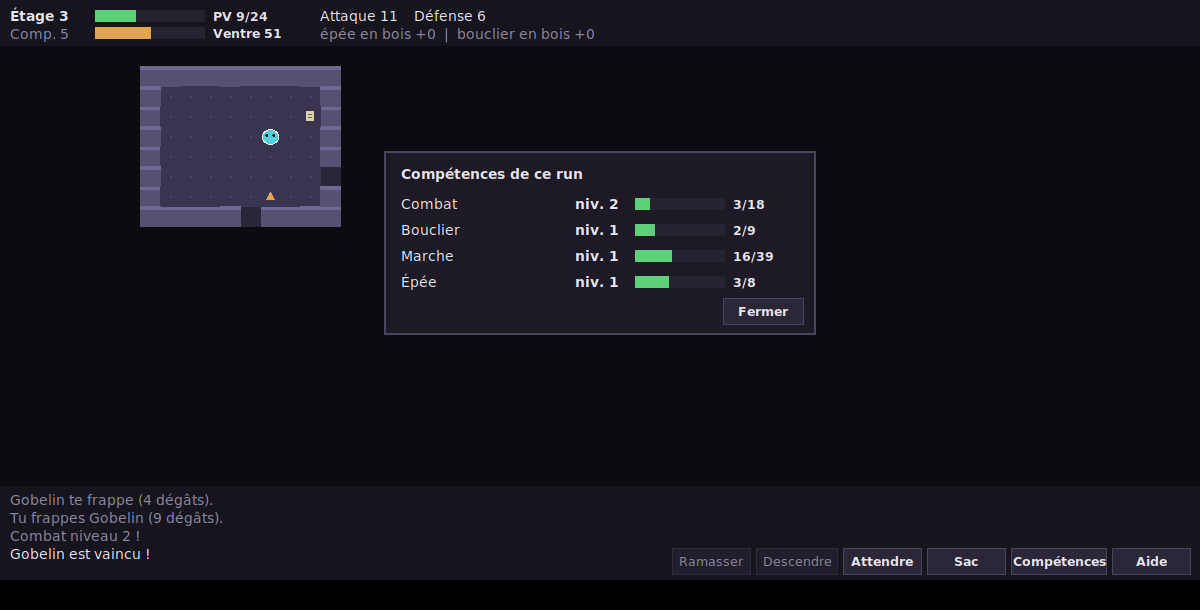
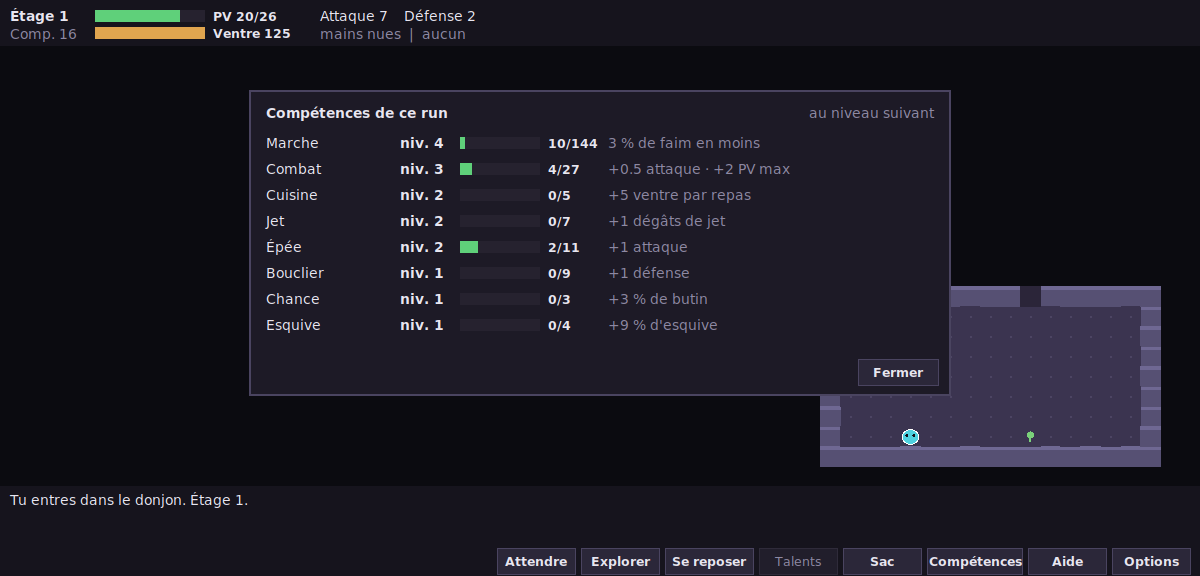
Met le README à jour : il décrivait un jeu d'il y a quinze étapes
L'en-tête ne disait pas que c'est devenu un incrémental, la table des
mécaniques listait « trois IA » et « 30 étages », la section d'équilibrage
citait des chiffres de l'époque où le donjon faisait cinq étages, et le
clavier ignorait la moitié des touches. Réécrit à partir de l'état réel :
13 créatures au croisement de 3 familles et 6 classes, 24 nœuds pour 32
achats, les étages qui s'achètent par tranches de dix, la stèle, les piles
de munitions, le bouton d'action unique, le double-clic.

Deux sections neuves : « Ce que valent les nombres », qui dit d'où viennent
les réglages et ce que le bot ne sait pas mesurer, et un bloc « ajouter un
talent » — c'est devenu le point d'extension le plus utilisé.

Captures refaites : l'aperçu, le sac avec sa bulle, les compétences avec
l'esquive et la chance.

Claude-Session: https://claude.ai/code/session_018UFaHGxRzxn1yYEEvUBBBk

diff --git a/README.md b/README.md
@@ -1,9 +1,10 @@
 # usedonjon — petit donjon mystère
 
-Un roguelike « Mystery Dungeon » (type *Shiren le vagabond*) volontairement
-minimal : tour par tour, étages générés aléatoirement, faim, objets à lancer,
-escalier à trouver. Écrit en **Python 3, sans aucune dépendance**, pour pouvoir
-tester une idée en quelques secondes et faire grossir les mécaniques ensuite.
+Un roguelike « Mystery Dungeon » (type *Shiren le vagabond*) doublé d'un
+**incrémental** : tour par tour, étages générés, faim, objets à lancer — et un
+donjon qui s'ouvre morceau par morceau. La première vie se joue dans un couloir
+vide où l'on meurt de faim ; tout le reste s'achète avec ce que la mort
+rapporte. Écrit en **Python 3, sans aucune dépendance**.
 
 ![Aperçu du jeu](docs/apercu.png)
 
@@ -12,7 +13,7 @@ tester une idée en quelques secondes et faire grossir les mécaniques ensuite.
 ```bash
 python3 -m donjon                # fenêtre graphique (tkinter, fourni avec Python)
 python3 -m donjon --seed 42      # partie reproductible
-python3 -m donjon --depth 10     # raccourcir le donjon (30 étages par défaut)
+python3 -m donjon --depth 10     # forcer la profondeur (sinon elle s'achète)
 python3 -m donjon --tile 26      # cases plus grandes
 python3 -m donjon --tui          # version terminal (ASCII, curses)
 python3 -m donjon --meta         # voir sa progression permanente
@@ -27,16 +28,18 @@ Tout se joue au clic, sans rien connaître du clavier :
 - **clic plus loin** : le héros s'y rend tout seul (chemin calculé par le BFS de
   `path.py`, uniquement à travers ce qu'il a déjà vu) et s'arrête dès qu'un
   monstre apparaît, qu'il est blessé ou qu'il marche sur quelque chose ;
-- **clic sur le héros** : ramasser l'objet sous lui, descendre l'escalier, ou
-  attendre un tour selon la situation — les consommables, eux, se ramassent
-  tout seuls en marchant dessus ;
+- **clic sur le héros** : ce que la case demande — ramasser, descendre, ouvrir
+  le coffre, lire la stèle des talents, ou attendre faute de mieux. Les
+  consommables se ramassent tout seuls en marchant dessus ;
 - **bouton « Se reposer »** : patienter jusqu'à guérison, au prix du ventre —
   l'attente s'interrompt seule si un monstre paraît ;
 - **survol** : une étiquette décrit la case (nom et PV du monstre, objet, piège) ;
 - **clic droit** : annuler le déplacement en cours ou fermer un panneau ;
-- les **boutons en bas à droite** (Ramasser, Descendre, Attendre, Sac, Aide) et
-  le **sac** sont entièrement cliquables — y compris viser un jet en cliquant
-  la cible.
+- les **boutons en bas à droite** et le **sac** sont entièrement cliquables — y
+  compris viser un jet en cliquant la cible. Le premier bouton est le seul
+  bouton d'action : son libellé dit ce qu'il fera ici. Dans le sac, un
+  **double-clic** exécute l'action évidente — un onigiri se mange, une épée
+  s'équipe.
 
 ![Le sac à la souris](docs/sac.png)
 
@@ -47,10 +50,10 @@ Les compétences se consultent d'un clic ou avec `c` :
 ### Au clavier
 
 Les **flèches** (ou `hjkl` + `yubn`, ou le pavé numérique) pour se déplacer et
-attaquer, `,` ramasser, `>` descendre, `.` attendre, `i` sac, `?` aide,
-`q` quitter. Dans le sac : la lettre de l'objet, puis `u` utiliser, `e` équiper,
-`t` lancer (puis une direction), `d` poser. Après la partie, `R` relance une
-nouvelle descente.
+attaquer, `,` ramasser, `>` descendre, `.` attendre, `s` se reposer,
+`e` explorer tout seul, `i` sac, `c` compétences, `t` talents (au refuge),
+`?` aide, `q` quitter. Dans le sac : la lettre de l'objet, puis `t` lancer
+(puis une direction) ou `d` poser. Après la partie, `R` relance une descente.
 
 Il y a deux affichages pour le même moteur : la fenêtre graphique (`gui.py`,
 formes dessinées à la main, prête à recevoir des sprites PNG) et le terminal
@@ -78,7 +81,7 @@ Tout le jeu est pilotable sans interface : l'UI et les tests appellent les
 mêmes fonctions `Game.cmd_*`.
 
 ```bash
-python3 -m unittest discover -s tests      # la suite complète (~3 s, 47 tests)
+python3 -m unittest discover -s tests      # la suite complète (~12 s, 330 tests)
 python3 -m donjon --seed 7 --script "lljj,>" --frames   # rejouer une partition
 python3 -m donjon --seed 7 --auto 500 --reveal          # bot + carte dévoilée
 ```
@@ -97,42 +100,55 @@ manquent, donc la suite reste verte sur un serveur sans affichage.
 
 ## Ce qui est déjà là
 
-| Mécanique | État |
+**Le donjon** — étages générés (salles + couloirs), visibilité « salle
+entière » et mémoire de la carte, faim, pièges, escalier. Il s'achète par
+tranches de dix étages, et chaque tranche franchie fait monter les créatures
+d'un cran sec : la profondeur est un escalier, pas une pente.
+
+**Le combat** — tour par tour sur un ordonnanceur à énergie (vitesses
+différentes), diagonales bloquées par les angles de murs pour les coups comme
+pour les pas, jet d'objets, tir des archers en ligne droite, statuts avec durée.
+
+**Les créatures** — 13, au croisement de 3 **familles** (animal, humanoïde,
+homoncule : ce qu'elles sont) et de 6 **classes** (rôdeur, erratique, embusqué,
+guerrier, archer, blindé : ce qu'elles font). Elles laissent du butin sur les
+mêmes axes — la classe lâche son outil, la famille sa matière.
+
+**Les objets** — 15 : vivres, herbes, parchemins non identifiés, armes,
+boucliers, pierres à lancer, l'orbe de retour. Les munitions s'empilent, les
+consommables se ramassent en marchant dessus, et les fiches au survol
+annoncent ce que l'objet fera *dans ces mains-là*, compétences comprises.
+
+**Les compétences** — 12, gagnées en pratiquant : marcher entraîne la marche,
+frapper entraîne l'arme en main, encaisser entraîne le bouclier — ou l'esquive
+si le bras est nu. Elles sont perdues à la mort.
+
+**Le méta** — un refuge où l'on marche, son coffre, sa stèle des talents ;
+24 nœuds (32 achats avec les reprises) répartis en 6 branches, dont une
+réanimation et deux automatisations (explorer un étage, manger sans y penser).
+
+**Les interfaces** — fenêtre tkinter entièrement jouable à la souris, terminal
+curses, et aucune interface du tout pour les tests et le bot.
+
+## Ce que valent les nombres
+
+Rien n'est réglé à l'estime : chaque nœud est mesuré par des campagnes du bot
+(`autoplay`), et le critère est simple — **après chaque achat, l'XP par vie doit
+monter**. Il a déjà condamné deux nœuds qui n'apportaient que du danger.
+
+Repères actuels, arbre complet acheté, 40 vies :
+
+| | |
 |---|---|
-| 30 étages générés (salles + couloirs), escalier | ✅ |
-| XP et monstres qui montent avec la profondeur | ✅ |
-| Bilan de fin de run (étage record, tours, compétences, cause) | ✅ |
-| Progression permanente : un arbre de talents qui déverrouille le jeu | ✅ |
-| Un refuge où l'on marche, avec un coffre qui traverse la mort | ✅ |
-| L'orbe de retour : remonter avec ses acquis, sans gagner de méta | ✅ |
-| Visibilité « salle entière », mémoire de la carte | ✅ |
-| Combat au tour par tour, diagonales bloquées par les angles de murs | ✅ |
-| Compétences : on progresse dans ce qu'on pratique | ✅ |
-| Faim (ventre), mort de faim | ✅ |
-| Repos : s'arrêter convertit le ventre en PV, trois fois mieux qu'en marchant | ✅ |
-| Objets : herbes, parchemins, nourriture, armes, boucliers, flèches | ✅ |
-| Jet d'objets sur les monstres | ✅ |
-| Statuts (endormi, confus, paralysé) avec durée | ✅ |
-| Pièges cachés | ✅ |
-| Fiches d'objets au survol (effet, compétence entraînée) | ✅ |
-| Parchemins non identifiés tant qu'on ne les a pas essayés | ✅ |
-| Consommables ramassés en marchant dessus | ✅ |
-| Vitesses différentes (rapide / lent) | ✅ |
-| Trois IA (chasseur, erratique, peureux) + pathfinding | ✅ |
-| Jeu complet à la souris (clic, déplacement auto, survol, boutons) | ✅ |
+| étage atteint | 10,4 en moyenne, 19 au mieux |
+| premier palier (étage 11) franchi | une vie sur deux |
+| cause de mort | la faim une fois sur deux, sinon les homoncules |
 
-## Équilibrage de départ
-
-Repère mesuré avec le bot (`autoplay`, qui fonce vers l'escalier sans farmer) :
-
-| Profondeur | Issue du bot sur 200 graines |
-|---|---|
-| 5 étages (défaut) | ~83 % de victoires |
-| 10 étages | mort systématique, le plus souvent aux étages 6-8 |
-
-Autrement dit : un joueur qui combat et fouille doit pouvoir descendre bien plus
-bas qu'un bot pressé. C'est la base à faire bouger quand on ajustera les tables
-de `monsters.py` et les réglages en tête de `game.py`.
+Le bot est un instrument, pas un joueur : il fuit ce qu'il ne peut pas battre,
+lit un parchemin quand il n'a plus le choix et mange l'herbe de vie, mais il
+n'utilise ni graine de sommeil ni tactique de terrain. **Ce qu'il ne sait pas
+faire, aucune campagne ne peut l'évaluer** — c'est écrit noir sur blanc dans le
+plan à chaque fois que ça compte.
 
 ## Architecture
 
@@ -227,10 +243,30 @@ def _voleur(game, monster):
 
 **Un piège** — même schéma dans `donjon/traps.py`.
 
+**Un talent** — une entrée dans `donjon/tree.py`, et c'est tout ce qui sépare
+une idée de son arrivée dans le jeu :
+
+```python
+Noeud("baguettes", "Les baguettes", 90,
+      "Des baguettes apparaissent au sol — et des créatures qui savent les "
+      "brandir.",
+      branche="Trouvailles", parents=("grimoires",),
+      unlocks=("baguettes",), classes=("mage",),
+      effets={"items_per_floor": (1, 1)})
+```
+
+`effets` s'ajoutent à la `RunConfig`, `reglages` la remplacent, `objets`
+garnissent le sac de départ, `unlocks` ouvrent des familles d'objets, `classes`
+réveillent des créatures, et `repetitions` / `facteur_cout` en font un nœud
+qu'on reprend, de plus en plus cher. L'éventail se réorganise tout seul autour
+du nouveau venu.
+
 ## Le refuge et les deux boucles
 
-La partie s'ouvre dans un **refuge** : une petite salle où l'on marche, avec un
-coffre et l'escalier du donjon. Ce qu'on laisse dans le coffre survit à la mort.
+La partie s'ouvre dans un **refuge** : une petite salle où l'on marche, avec la
+stèle des talents, un coffre et l'escalier du donjon. Ce qu'on laisse dans le
+coffre survit à la mort. Le refuge n'entraîne rien — sans faim ni monstre, on y
+ferait des ronds pour monter la marche : on y dépense, on n'y gagne pas.
 
 Deux boucles s'y imbriquent :
 
@@ -246,12 +282,14 @@ Deux boucles s'y imbriquent :
 Le jeu **se déverrouille**. La première vie se joue dans un couloir vide où
 l'on meurt de faim : pas d'arme, pas de monstre, rien au sol. Mourir rapporte
 de l'XP permanente — les niveaux de compétences du run multipliés par la
-profondeur atteinte — et cette XP s'échange contre des talents, au refuge.
+profondeur atteinte — et cette XP s'échange contre des talents, à la stèle du
+refuge.
 
 L'équipement, les créatures, les objets, les herbes, les parchemins, le coffre,
-l'orbe : chacun est un nœud à acheter, avec ses prérequis. Les choix sont
-définitifs. Chaque déblocage augmente ce qu'une vie rapporte, donc accélère le
-suivant.
+l'orbe, les étages eux-mêmes : chacun est un nœud à acheter, avec ses
+prérequis. Les choix sont définitifs, mais certains nœuds se **reprennent**, de
+plus en plus cher. Chaque déblocage augmente ce qu'une vie rapporte, donc
+accélère le suivant.
 
 La nourriture ne descend jamais sous 30 % des trouvailles, quel que soit le
 nombre de familles d'objets débloquées — sans ce plancher, acheter du contenu
@@ -259,10 +297,14 @@ noierait les vivres et ferait mourir de faim. C'est un plancher statistique, pas
 un vivre posé d'office : quatre étages sur dix n'en portent aucun.
 
 **On n'achète jamais des monstres.** Un nœud donne un outil, et le donjon
-apprend le même geste : l'épée fait venir ce qui se bat au contact, le bouclier
-ce qui encaisse, les herbes ce qui frappe puis se retire. La menace qu'un achat
-réveille est ce qui rend le suivant désirable — et le critère est mesuré : après
-chaque nœud, l'XP par vie doit monter.
+apprend le même geste : la nourriture attire les bêtes, l'épée fait venir ce qui
+se bat au contact, le bouclier ce qui encaisse, les projectiles ce qui te vise
+de loin. La menace qu'un achat réveille est ce qui rend le suivant désirable —
+et le critère est mesuré : après chaque nœud, l'XP par vie doit monter.
+
+Le donjon lui-même s'achète **par tranches de dix étages**, et chaque tranche
+franchie fait monter les créatures d'un cran sec — ×1,54 au dixième étage,
+×2,32 au onzième. Ouvrir la suite du donjon se sent au premier pas.
 
 L'arbre s'affiche en éventail : au centre l'XP qu'il reste à dépenser, autour
 les branches qui s'ouvrent en rayons, un cran plus loin du centre par prérequis.
@@ -285,19 +327,24 @@ supprimer à la main revient au même.
 
 ## Où va le projet
 
-Le jeu évolue vers un hybride roguelike / incrémental. Les compétences sont en
-place — on progresse dans ce qu'on pratique, marcher entraîne la marche et
-frapper entraîne l'arme en main — et la suite est le prestige — à la mort les compétences sont perdues, un niveau global permanent
-monte et débloque des mécaniques. Le plan détaillé, la frontière entre état de
-run et état permanent, et les décisions déjà prises sont dans
+L'hybride roguelike / incrémental est en place : on progresse dans ce qu'on
+pratique, on perd tout à la mort, et ce qu'on y gagne rouvre le jeu un nœud à
+la fois. Le plan détaillé, la frontière entre état de run et état permanent, et
+**toutes les décisions avec leurs mesures** — y compris celles que les chiffres
+ont fait changer d'avis — sont dans
 [`docs/plan-incremental.md`](docs/plan-incremental.md).
 
 ## Pistes pour la suite
 
-- Objets non identifiés (herbes de couleur, parchemins au nom inconnu)
+- **Forces et faiblesses par famille** : le métal encaisse le tranchant et
+  redoute le contondant, la chair l'inverse — l'axe qui donnera tout son sens
+  aux homoncules, et une raison de porter deux armes
+- **Les baguettes**, et le mage qui va avec (il fait des dégâts à distance :
+  aucun monstre ne prend le contrôle du héros, c'est une règle)
+- **L'arc**, en amélioration du nœud des projectiles — les flèches attendent
+  déjà, on ne les trouve que sur un archer
+- Nourritures spéciales et améliorations de satiété, derrière « Nourriture »
 - Marmites / fusion d'objets, malédictions, objets scellés
-- Monstres qui se transforment en objets, alliés, montures
 - Missions à contraintes (sans objet, étages spéciaux, salles de monstres)
 - Sauvegarde de partie (l'état est déjà sérialisable sans effort)
-- Coût d'action variable (attaques rapides, incantations lentes)
 - Sprites PNG dans la fenêtre (le dessin passe déjà par une fonction par forme)
